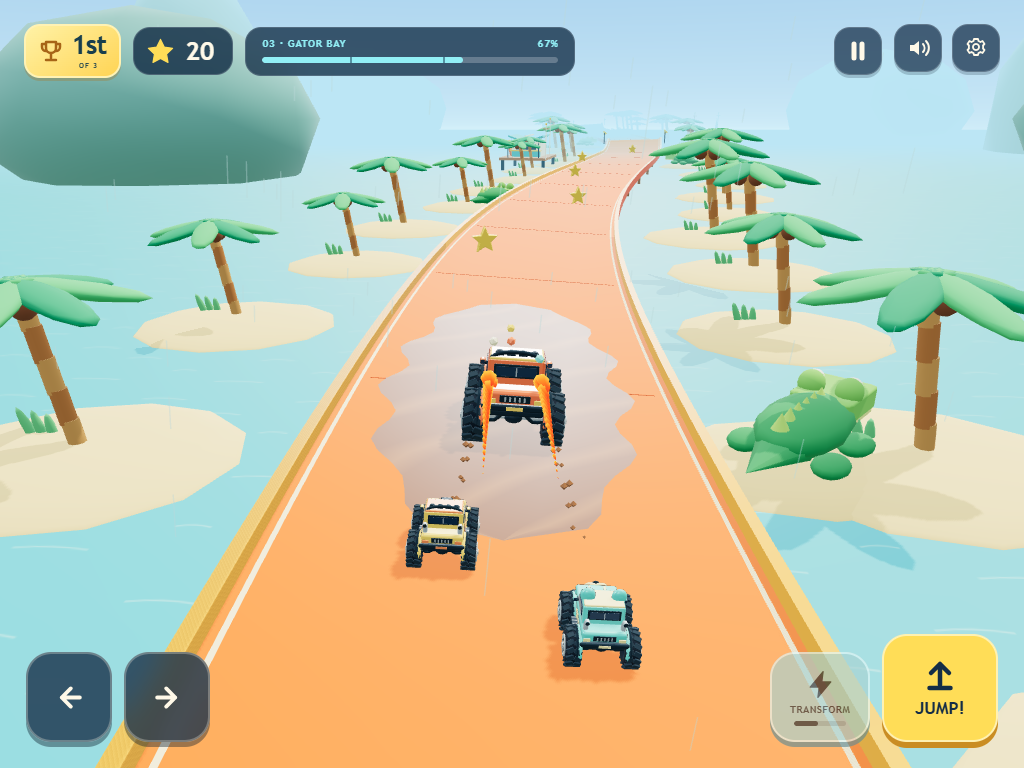
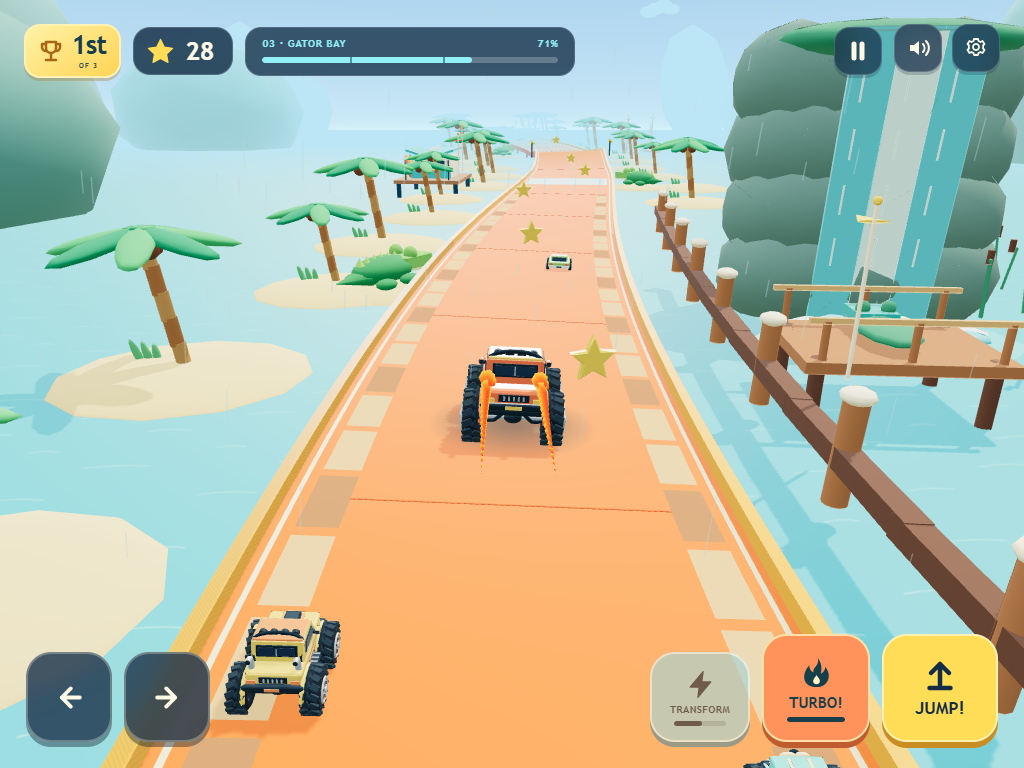
Record live turbo-adventure verification and refresh screenshots

diff --git a/docs/VALIDATION.md b/docs/VALIDATION.md
@@ -86,6 +86,10 @@ The new encounters add 34 meshes and 9,432 triangles; the three authored destina
 
 The final local production build passed all **six browser tests in Chrome (about 1.8 minutes) and WebKit (about 2.0 minutes)**. Both verify real crush-to-model flattening, an actual overtake followed by keyboard turbo and regained first place, pause with boost/opponents frozen, correct steering in both tablet orientations, and touch turbo/jump with blocked storage, unavailable audio and gentler motion. Each also completes a full race with no driving input through the new landmarks, automatic boost strips, guardian, loop and rainy bay, then verifies first-place rewards, an earned truck, saved reload and a fresh replay. Neither run recorded JavaScript, console, failed-request or HTTP errors. Real-race bridge, rocket, waterfall, comeback and inverted-loop captures were inspected.
 
+The [turbo adventure deployment](https://github.com/yanivalfasykeelusa/james-monster-skyway/actions/runs/34626570687) successfully built and published runtime commit `3ed7e76`. The public site serves the matching `index-B5cBZ-hY.js` and `index-L73CJAqG.css` assets.
+
+All **six tests passed against that public URL in Chrome (about 1.7 minutes) and WebKit (about 1.9 minutes)**, including the actual overtake/turbo comeback and a complete unattended first-place race, saved unlock and replay. Both public runs recorded no JavaScript, console, failed-request or HTTP errors. The full-course screenshots and public comeback were inspected. A separate public capture verified four desktop/tablet/phone layouts, all six garage portraits, no horizontal garage overflow and no overlapping/offscreen essential controls. Public airborne Titan, phone controls, tablet menu and phone garage also passed independent visual review. README screenshots now show this deployment, including the timber bridge, rocket runway and waterfall. The collection/lobby captures use a prepared browser save to display the complete garage; physical iPad testing remains pending.
+
 ## Practical limits
 
 - Chrome and Playwright WebKit on a desktop with emulated touch are not a physical iPad or iPhone. Shipping Safari behavior, actual device frame pacing, battery use, and orientation changes still need a real-device pass.

diff --git a/README.md b/README.md
@@ -46,15 +46,19 @@ These are original models inspired by broad toy and vehicle interests. The game 
 
 ## Around the skyway
 
-![Rumbler leading two friendly racers past the woodland stands](docs/screenshots/race.png)
+![Rumbler using turbo to regain the lead after crushing a toy car](docs/screenshots/race.png)
 
 Bear Woods climbs a timber bridge beside a giant waterwheel. Rocket Runway adds a launch pad, a tall toy rocket, and a boost toward the next ramp. Gator Falls brings a broad waterfall, reeds, and a waterfront boardwalk to the rainy lagoon. Picnic stops, balloons, friendly bears and alligators, stands, and the finish trophy garden fill out the route.
+
+![A close race across the raised timber bridge beside its waterwheel](docs/screenshots/bridge.png)
+
+![Automatic turbo fires along the toy rocket's runway](docs/screenshots/rocket.png)
 
 ![The complete raised-edge toy loop and its stunt festival surroundings](docs/screenshots/loop.png)
 
 Steering turns the front wheels and leans the body. Left and right follow the chase camera's view for both touch and keyboard controls. Landings compress the suspension and kick up a brief dust burst and ring. The chase camera frames your truck and its two followers, then pulls aside for an upright view of the loop.
 
-![The orange skyway crossing the water and islands of Gator Bay](docs/screenshots/bay.png)
+![The rainy skyway passing Gator Falls and its waterfront boardwalk](docs/screenshots/bay.png)
 
 Shallow mud patches send little flecks from the tires, and a short, gentle shower passes through Gator Bay. Mud and rain are visual effects: they never slow the truck, change steering, or make winning harder.
 

diff --git a/.references/plans/2026-09-11-turbo-adventure.md b/.references/plans/2026-09-11-turbo-adventure.md
@@ -50,6 +50,8 @@ Files: src/main.mjs, src/scene.mjs, src/flames.mjs, src/audio.mjs, index.html, s
 
 ## 5. Publish and document
 
-- [ ] Update README/roadmap and validation with actual outcomes and the new user feedback. Commit and push the tested runtime on main.
-- [ ] Dispatch the existing Pages workflow, verify published hashes, run both public browser suites and inspect refreshed screenshots.
-- [ ] Record release evidence, complete this checklist, push documentation and report the playable result and remaining real-device observations.
+- [x] Update README/roadmap and validation with actual outcomes and the new user feedback. Commit and push the tested runtime on main.
+- [x] Dispatch the existing Pages workflow, verify published hashes, run both public browser suites and inspect refreshed screenshots.
+- [x] Record release evidence, complete this checklist, push documentation and report the playable result and remaining real-device observations.
+
+Released runtime `3ed7e76` through Pages run `34626570687`. Final verification: 81 unit tests; all six browser tests in Chrome and WebKit locally and on the public URL; independent code/visual review; five touch layouts; bounded resources and paused effects. Physical iPad testing and James's feedback on the new crush/turbo rhythm are the next observations.
